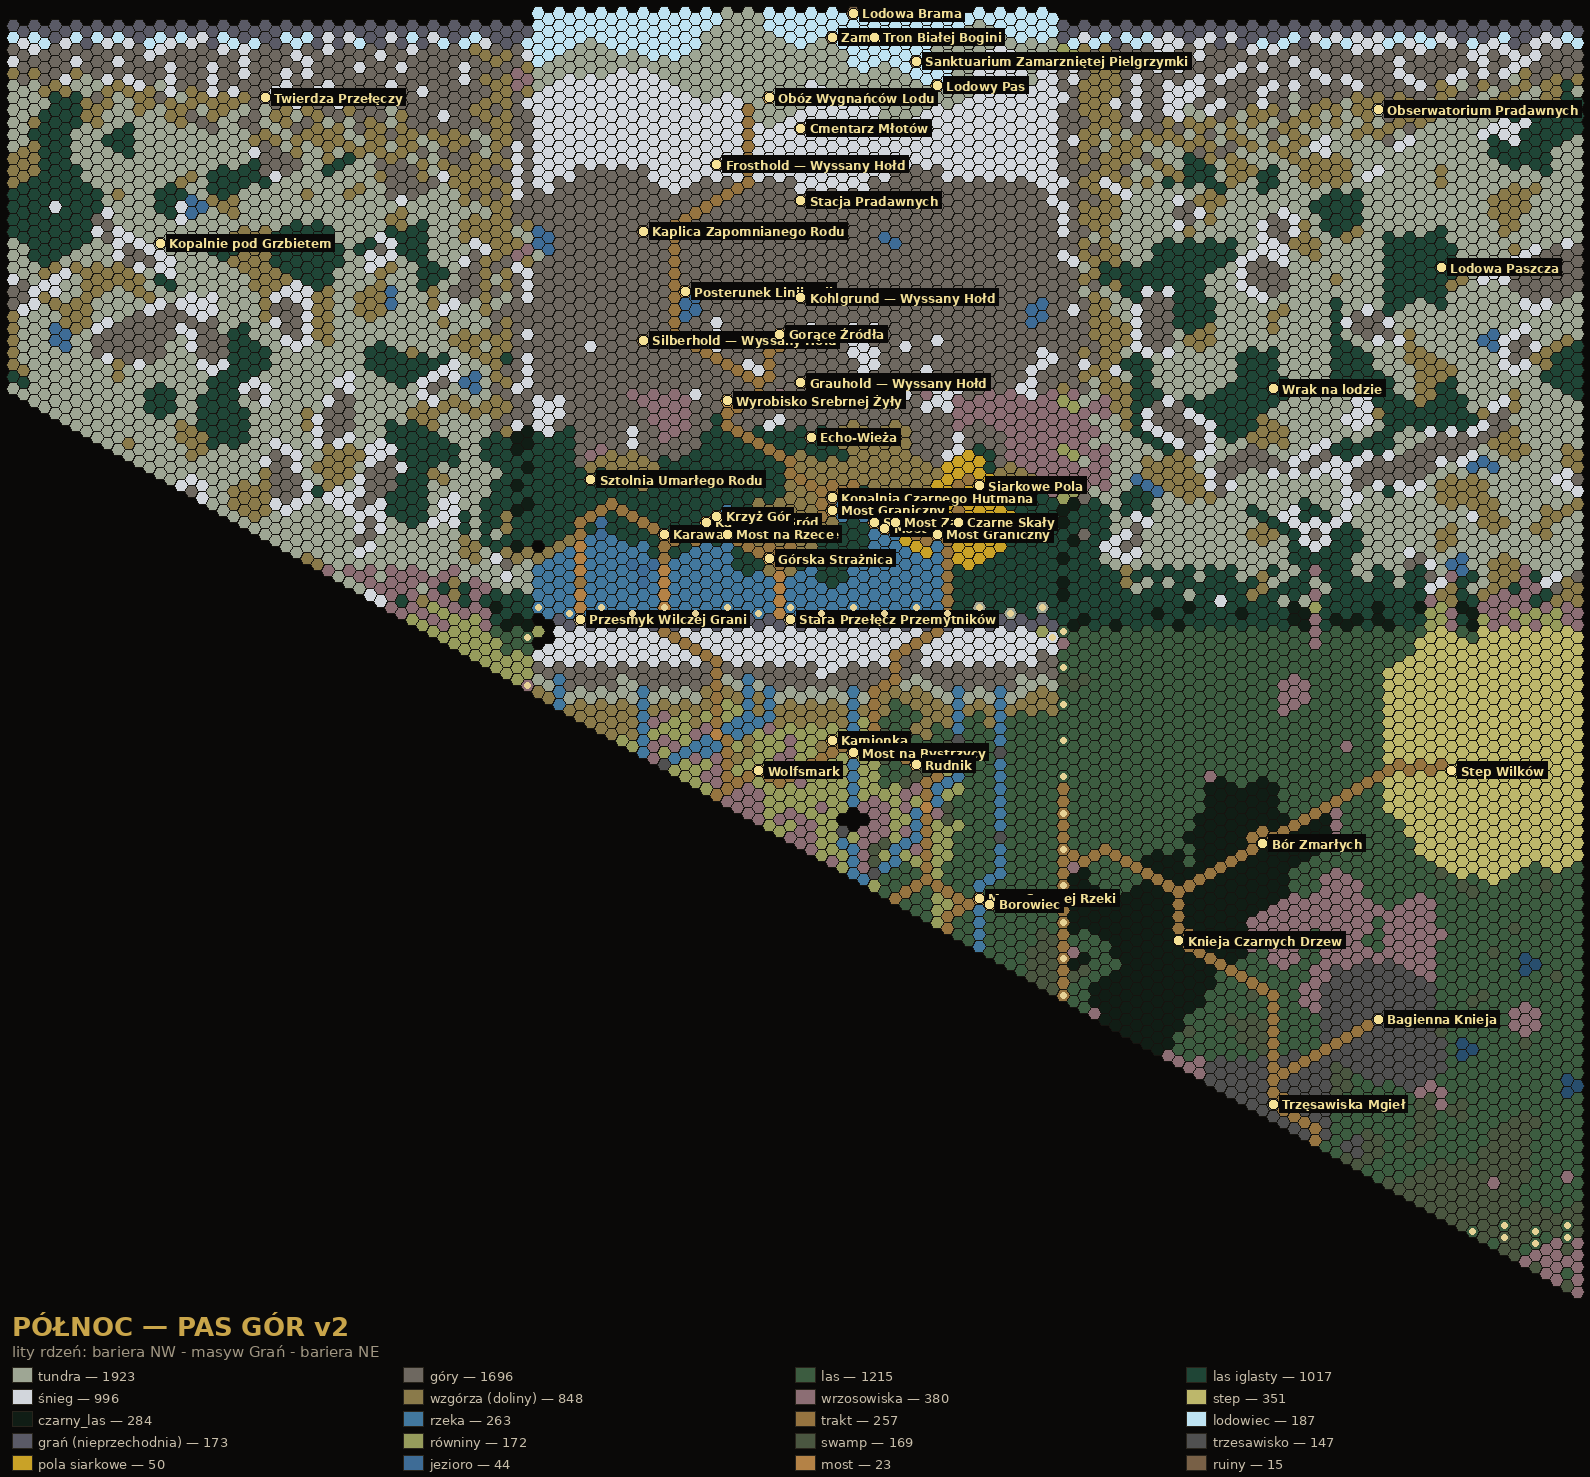
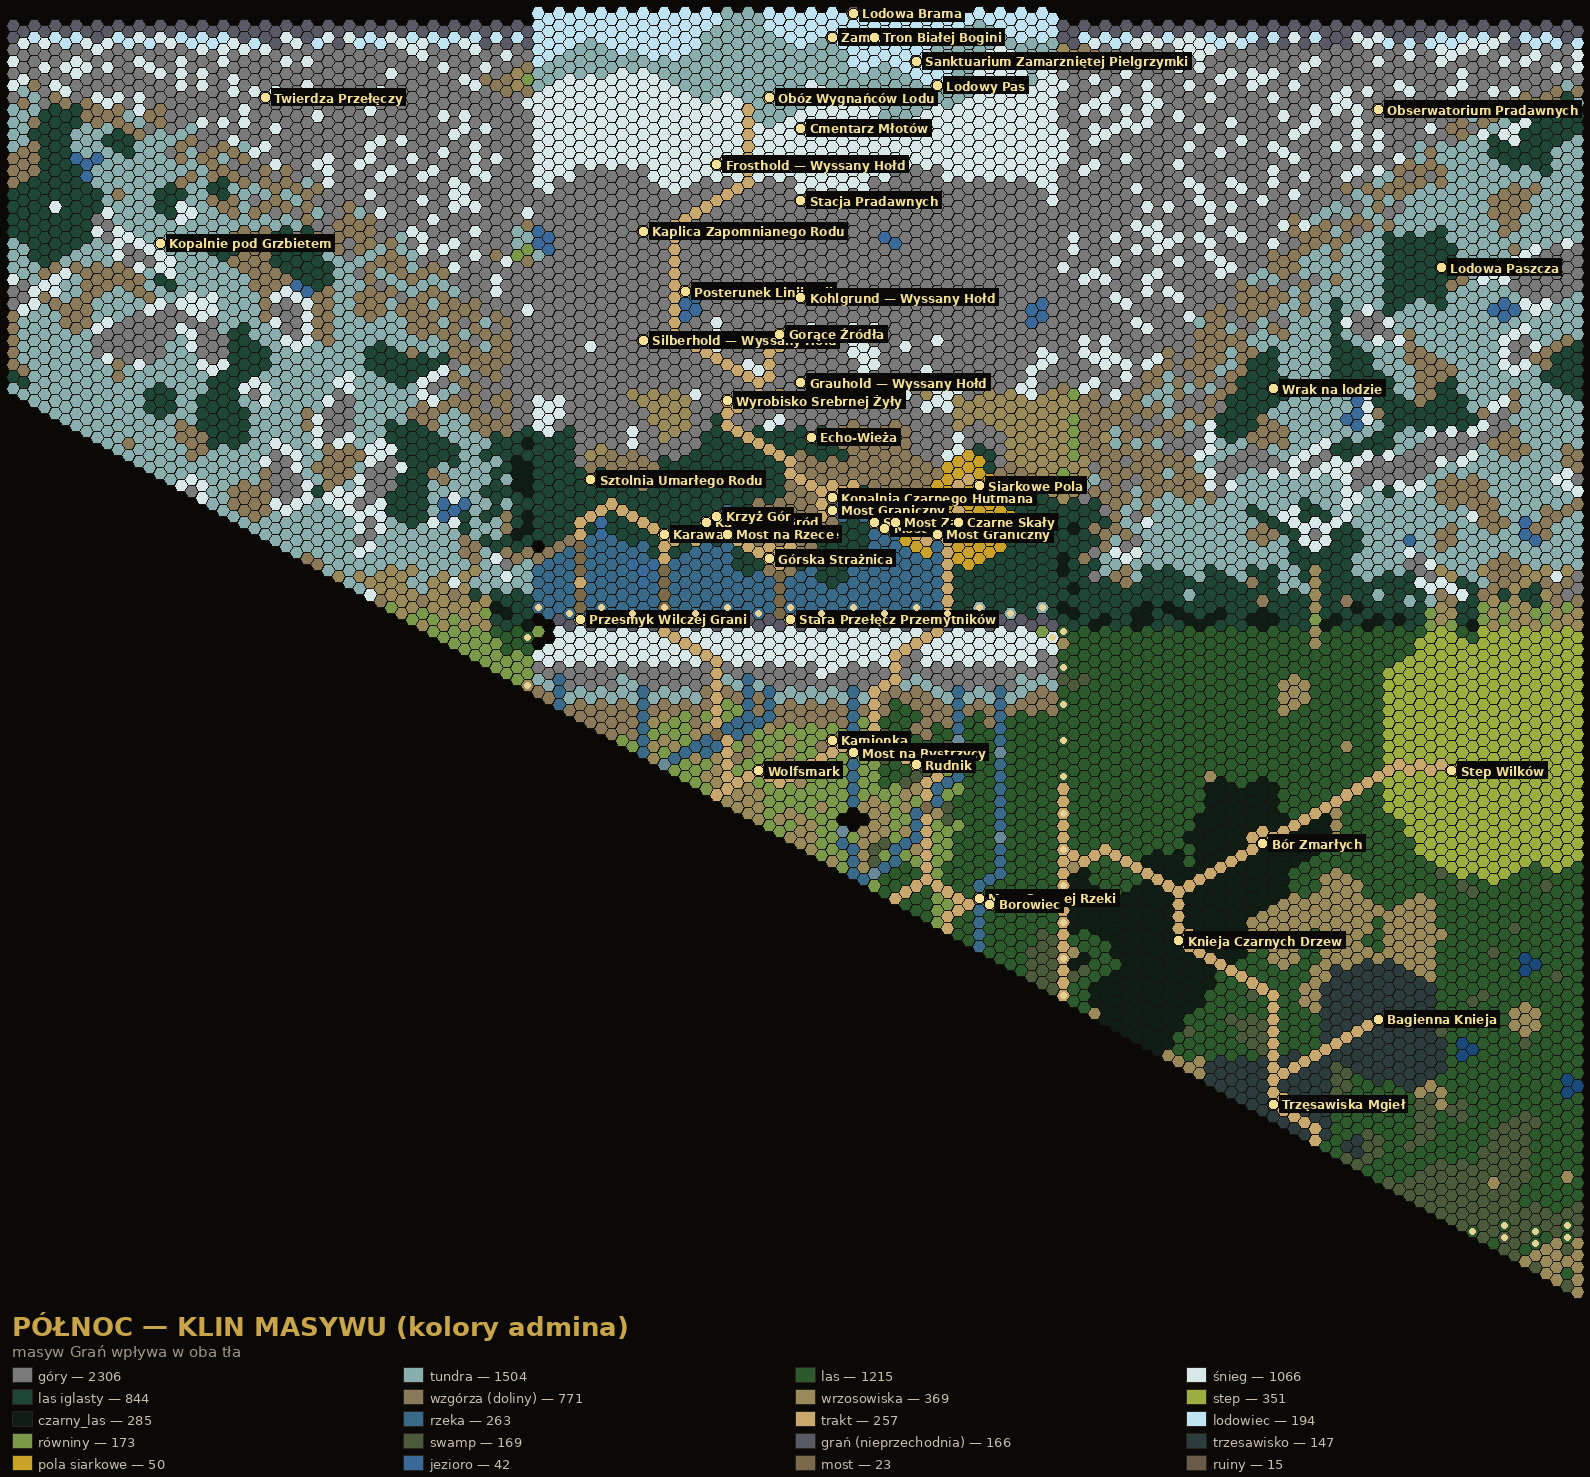
fix(map): klin masywu Grań w tłach NW/NE — pas gór trafia w szerokość masywu #1549
Pas gór przy górnej krawędzi tł nie trafiał w szerokość geograficzną masywu
Siwych Grań: bloki są przesunięte schodkowo o ±25 rzędów, a masyw siedzi
w pionowym środku bloku SG — łańcuch dalej urywał się na szwach.

paint_north_range() przerobiony na KLIN kotwiczony w danych sąsiada:
- na krawędzi od strony Grań pass znajduje pełną rozpiętość kontaktu
  z masywem (rodzina MOUNTAIN w kanonie SG, ~30 rzędów),
- przy szwie klin pokrywa całą tę rozpiętość (masyw wpływa w tło),
- ku przeciwnej krawędzi zwęża się łukiem (prox^1.6) do wąskiego grzbietu
  pod barierą lodową; rdzeń lity (mountain 0.8/snow 0.2).
Blend nie rozcieńcza klina: hex już górski przy górskim sąsiedzie pomijany.

Wynik: jedna ciągła masa górska NW → masyw Grań → NE (góry 1696→2306).
Wszystkie 5 styków nadal 0 twardych skoków. JSON-y krain commituje
auto-snapshot. Podgląd (kolory admina): docs/world/previews/polnoc_pas_gor.png.

diff --git a/scripts/build_region_tlo_polnoc.py b/scripts/build_region_tlo_polnoc.py
@@ -171,22 +171,40 @@ def paint_interior(hexes, local, rng):
         hexes[k]["hex_type"] = assigned.get(k, "tundra")
 
 
-def paint_north_range(hexes, local, cfg, rng):
+def paint_north_range(hexes, local, cfg, rng, foreign):
     """Pas gór na północy (#1549, spójność z masywem Siwych Grań).
 
-    Masyw Grań dotyka tła górną częścią krawędzi od strony SG — ale bariera
-    lodowa tła to ledwie 2 rzędy, więc łańcuch „urywał się" na szwie. Ten pas
-    maluje szeroki grzbiet pod barierą: głęboki przy narożniku Grań (zlewa się
-    z masywem), zwężający się ku przeciwnej krawędzi. Efekt: jeden ciągły łuk
-    bariera NW → masyw Grań → bariera NE."""
+    Masyw Grań siedzi w PIONOWYM środku swojego bloku, a bloki tła są
+    przesunięte schodkowo o ±25 rzędów — więc „pas przy górnej krawędzi"
+    nie trafiał w szerokość geograficzną masywu i łańcuch urywał się na szwie.
+
+    Ten pass kotwiczy się w DANYCH sąsiada: na krawędzi od strony Grań
+    znajduje pełną rozpiętość kontaktu z masywem (rodzina MOUNTAIN) i maluje
+    KLIN — przy szwie pokrywa całą rozpiętość kontaktu (masyw wpływa w tło),
+    a ku przeciwnej krawędzi zwęża się łukiem do wąskiego grzbietu pod barierą
+    lodową. Efekt: brązowa masa masywu ciągnie się przez oba tła."""
     sg_east = cfg["grania_side"] == "E"     # NW: Granie na wschodzie
-    deep, shallow = 12, 3                    # głębokość pasa przy/naprzeciw Grań
-    # jitter per KOLUMNA (nie per hex) → dolna krawędź pasa faluje gładko
+    edge_c = (W - 1) if sg_east else 0
+
+    # rozpiętość kontaktu z masywem: wiersze lokalne krawędzi SG, których
+    # obcy sąsiad (axial) jest rodziny MOUNTAIN
+    contact = []
+    for k, (c, r) in local.items():
+        if c != edge_c:
+            continue
+        for nb in ax_neighbors(*k):
+            if nb in foreign and BLEND_FAM.get(foreign[nb]) == "MOUNTAIN":
+                contact.append(r)
+                break
+    deep = max(contact) if contact else 12   # dolny skraj klina przy szwie
+    shallow = 4                              # wąski grzbiet na drugim końcu
+
+    # jitter per KOLUMNA → krawędź klina faluje gładko, nie szumi per hex
     jitter = [2.0 * (rng.random() - 0.5) + 1.2 * (rng.random() - 0.5)
               for _ in range(W)]
     for k, (c, r) in sorted(local.items()):
         prox = (c / (W - 1)) if sg_east else (1 - c / (W - 1))
-        depth = shallow + (deep - shallow) * prox + jitter[c]
+        depth = shallow + (deep - shallow) * (prox ** 1.6) + jitter[c]
         band_r = r - BARRIER_ICE_ROWS
         if band_r < 0 or band_r >= depth:
             continue
@@ -194,11 +212,11 @@ def paint_north_range(hexes, local, cfg, rng):
             continue
         rel = band_r / max(depth, 1)         # 0 = pod barierą, 1 = dolny skraj
         roll = rng.random()
-        if rel < 0.55:                       # rdzeń grzbietu — lity jak masyw Grań
-            hexes[k]["hex_type"] = "mountain" if roll < 0.75 else "snow"
+        if rel < 0.7:                        # rdzeń grzbietu — lity jak masyw Grań
+            hexes[k]["hex_type"] = "mountain" if roll < 0.8 else "snow"
         else:                                # pogórze na dolnym skraju
             hexes[k]["hex_type"] = "hills" if roll < 0.55 else \
-                ("mountain" if roll < 0.7 else "tundra")
+                ("mountain" if roll < 0.75 else "tundra")
 
 
 def carve_lakes(hexes, local, rng, n_lakes=N_LAKES):
@@ -323,7 +341,9 @@ def blend_to_neighbors(hexes, local, rng, foreign, band=BLEND_BAND):
         p = (band - d + 1) / band + 0.25 * (rng.random() - 0.5)
         cur = h["hex_type"]; new = None
         if fam_n == "MOUNTAIN":
-            if d <= 2:
+            if BLEND_FAM.get(cur) == "MOUNTAIN":
+                new = None                     # już górski (np. klin masywu) — nie rozcieńczaj
+            elif d <= 2:
                 new = "mountain" if rng.random() < 0.7 else "snow"
             elif d <= 4 and rng.random() < p:
                 new = "mountain" if rng.random() < 0.35 else "hills"
@@ -442,15 +462,16 @@ def main():
     print("[1] wnętrze: tundra-dominant + tajga/wzgórza/góry/śnieg")
     paint_interior(hexes, local, rng)
 
-    print("[1b] pas gór na północy (ciągłość z masywem Siwych Grań)")
-    paint_north_range(hexes, local, cfg, rng)
+    foreign = load_foreign(region)
+
+    print("[1b] pas gór na północy (klin od masywu Grań, kotwiczony w danych)")
+    paint_north_range(hexes, local, cfg, rng, foreign)
 
     print("[2] jeziora (z dala od gór — #1545)")
     lakes = carve_lakes(hexes, local, rng)
     print(f"  jeziora: {len(lakes)} hexów")
 
     print("[3] blend do sąsiadów (data-driven z kanonu, pas %d hexów)" % BLEND_BAND)
-    foreign = load_foreign(region)
     n_blend = blend_to_neighbors(hexes, local, rng, foreign)
     print(f"  przemalowane: {n_blend} hexów")
     # blend mógł postawić górę przy naszym jeziorze — pogórze mostkuje (#1545)
